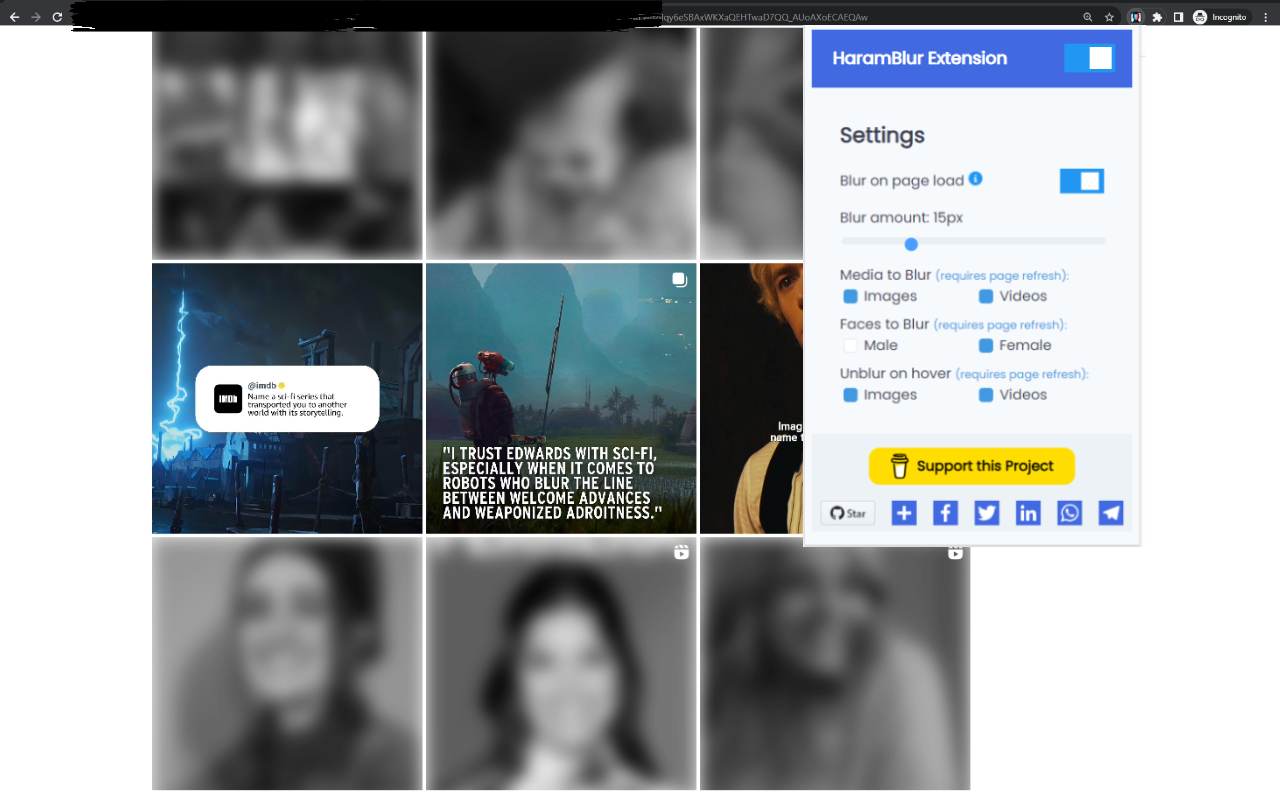
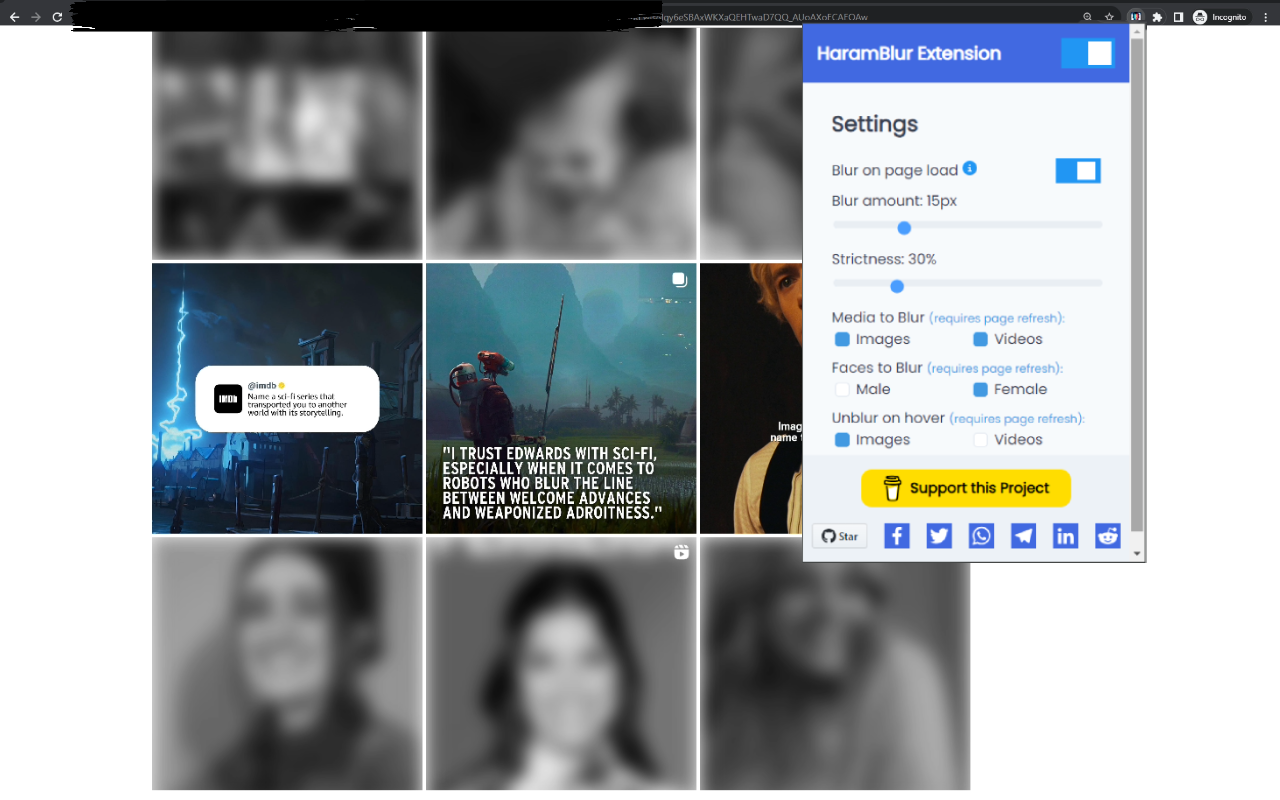
update readme

Changed region(s): [[0.625, 0.0, 0.9062, 0.7188]]

diff --git a/README.MD b/README.MD
@@ -4,7 +4,7 @@ HaramBlur is a browser extension that allows you to navigate the web with respec
 
 HaramBlur utilizes face detection and NSFW content detection and provides controls that allow you to uphold the Islamic gaze protection principle and tailor your online experience by automatically blurring images and videos that contain unwanted or impermissible content. 
 
-You can configure the type of detection you want and the amount of blur, hover to unblur, choose a specific gender to blur, or turn the extension on and off via the interactive pop-up 😄
+You can configure the type of detection you want and the amount of blur, the level of strictness, hover to unblur, choose a specific gender to blur, or turn the extension on and off via the interactive pop-up 😄
 
 ![HaramBlur Demo](demos/demo1.png)
 
@@ -16,7 +16,7 @@ You can configure the type of detection you want and the amount of blur, hover t
 - Configurable detection settings to tailor your browsing experience
 - Interactive pop-up for easy on/off toggling 
 - Customizable hover to unblur feature
-- Decent speed and accuracy (can be improved)
+- Decent speed and accuracy (continously improved)
 
 ## How it Works
 
@@ -26,7 +26,7 @@ HaramBlur currently used face detection and recognition features provided by [Hu
 1. Clone the repository
 2. run `npm install`
 3. code your magic
-4. run `npm run build` to build the extension, then load the extension in Chrome by going to `chrome://extensions/` and clicking on `Load unpacked`  (developer mode has  to be on) and selecting the project folder.
+4. run `npm run build` to build the extension, then load the extension in Chrome by going to `chrome://extensions/` and clicking on `Load unpacked` (developer mode has  to be on) and selecting the project folder.
 5. Or run `npm run release` to generate a zip file for the extension to be uploaded to the browser/store.
 
 
